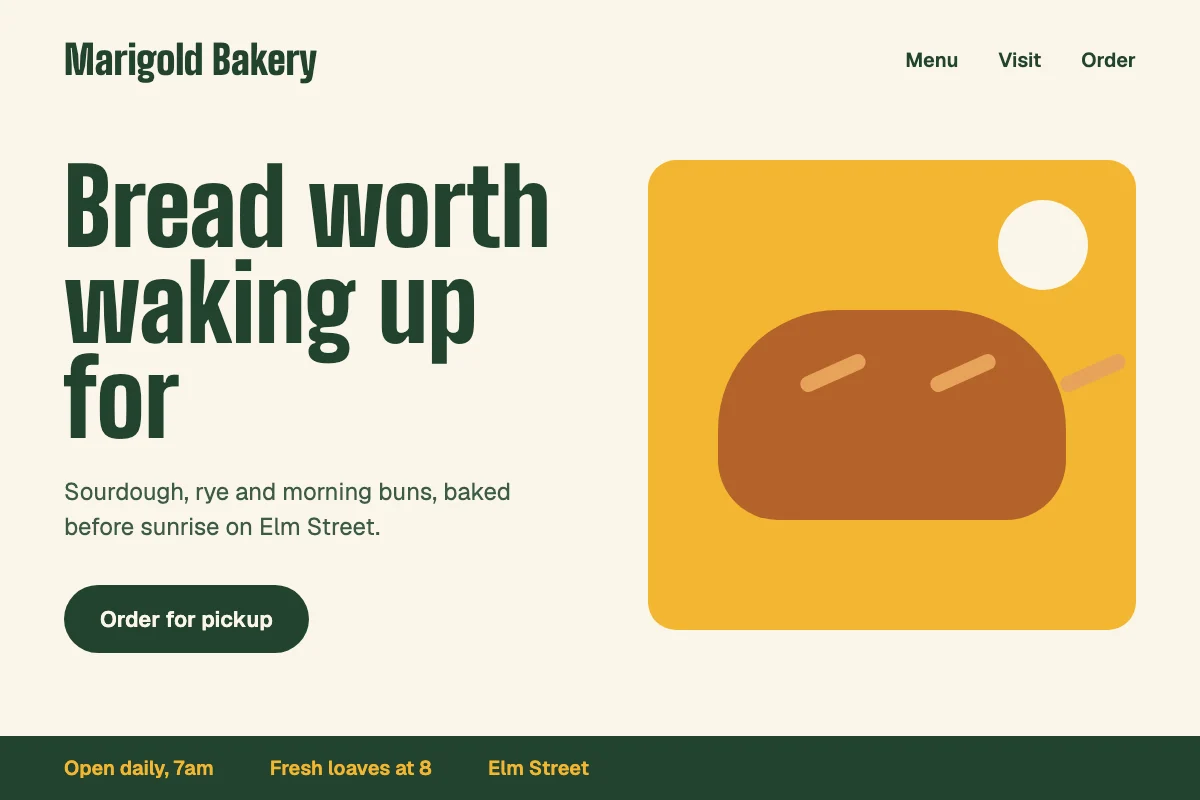
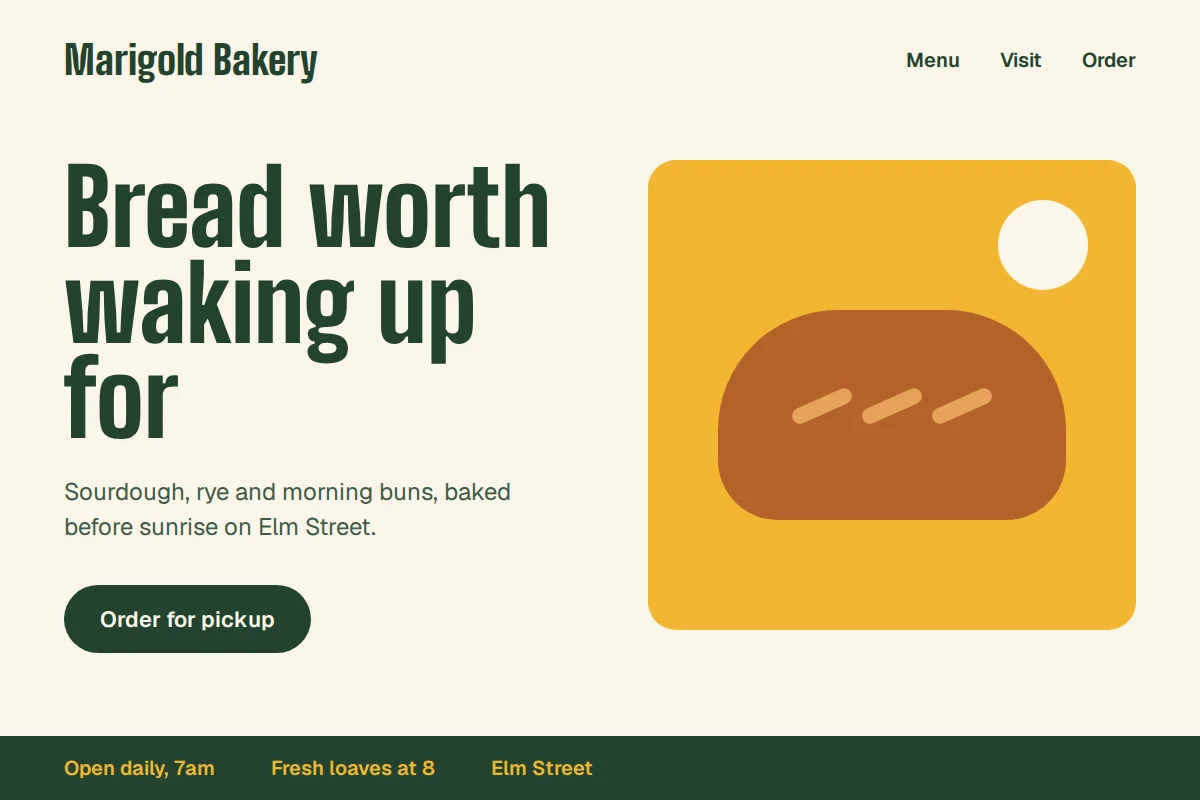
Keep the sketch loaf's scores on the bread
The third score hung off the loaf's right edge and the other two sat high
enough to read as eyes. The scores now live inside the loaf, clipped to it,
in an even row across its middle. Sketch rebaked with scripts/paint.mts.

diff --git a/scripts/sketch.ts b/scripts/sketch.ts
@@ -14,8 +14,8 @@ export const SKETCH_HTML = `<!doctype html><html><head>
   p { font-size: 24px; line-height: 1.45; margin: 0 0 40px; max-width: 30ch; color: #3d5a47; }
   .button { display: inline-block; background: #23432f; color: #fbf6e9; font-size: 22px; font-weight: 600; padding: 20px 36px; border-radius: 999px; }
   .loaf { position: relative; height: 470px; border-radius: 28px; background: #f2b632; overflow: hidden; }
-  .bread { position: absolute; left: 70px; right: 70px; top: 150px; height: 210px; border-radius: 120px 120px 60px 60px; background: #b4622a; }
-  .score { position: absolute; top: 205px; width: 70px; height: 16px; border-radius: 8px; background: #e7a35a; transform: rotate(-24deg); }
+  .bread { position: absolute; left: 70px; right: 70px; top: 150px; height: 210px; border-radius: 120px 120px 60px 60px; background: #b4622a; overflow: hidden; }
+  .score { position: absolute; top: 88px; width: 64px; height: 16px; border-radius: 8px; background: #e7a35a; transform: rotate(-24deg); }
   .sun { position: absolute; right: 48px; top: 40px; width: 90px; height: 90px; border-radius: 50%; background: #fbf6e9; }
   .strip { position: absolute; left: 0; right: 0; bottom: 0; height: 64px; background: #23432f; color: #f2b632; display: flex; align-items: center; gap: 56px; padding: 0 64px; font-size: 20px; font-weight: 600; }
 </style></head><body>
@@ -29,10 +29,11 @@ export const SKETCH_HTML = `<!doctype html><html><head>
     </div>
     <div class="loaf">
       <div class="sun"></div>
-      <div class="bread"></div>
-      <div class="score" style="left:150px"></div>
-      <div class="score" style="left:280px"></div>
-      <div class="score" style="left:410px"></div>
+      <div class="bread">
+        <div class="score" style="left:72px"></div>
+        <div class="score" style="left:142px"></div>
+        <div class="score" style="left:212px"></div>
+      </div>
     </div>
   </section>
   <div class="strip"><span>Open daily, 7am</span><span>Fresh loaves at 8</span><span>Elm Street</span></div>
